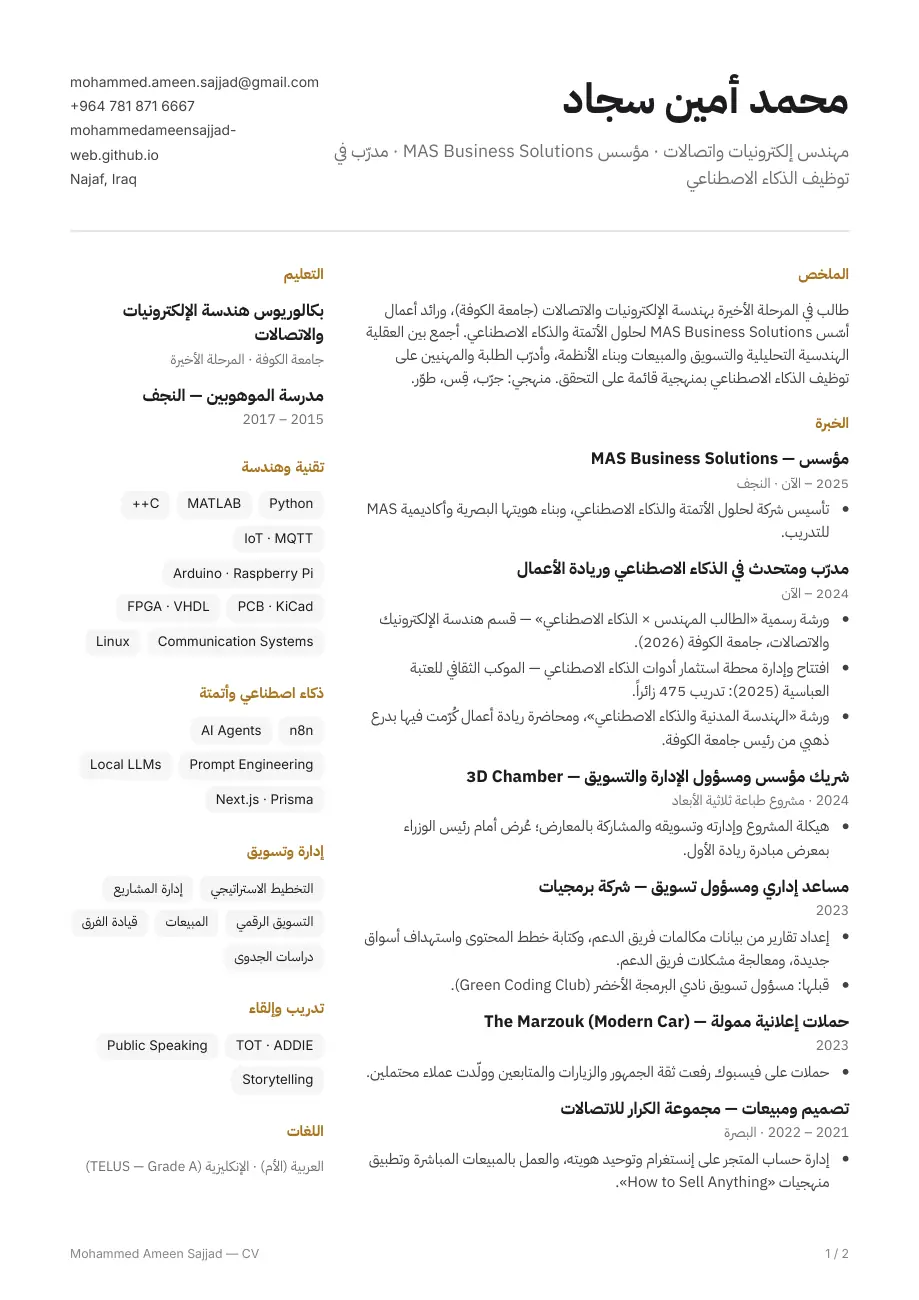
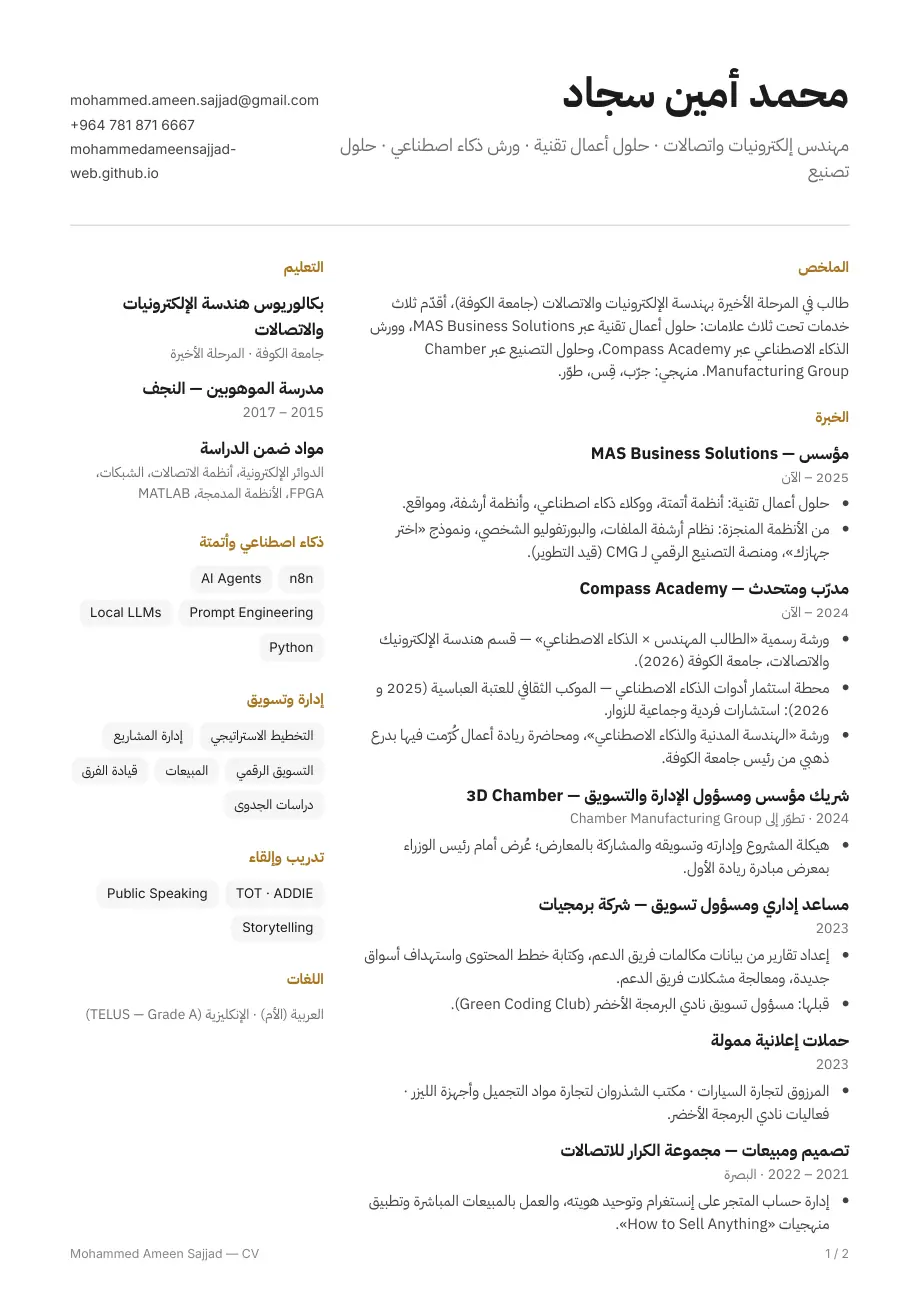
Restructure by brand (MAS, Compass Academy, CMG); proof-of-work; remove unpublished and confidential work

diff --git a/index.html b/index.html
@@ -250,7 +250,7 @@ footer .wrap{display:flex;justify-content:space-between;gap:10px;flex-wrap:wrap}
 <header class="nav"><div class="bar">
   <a class="brand" href="#top"><img src="assets/mas-logo.webp" alt=""><span data-en="Mohammed Ameen">محمد أمين</span></a>
   <nav class="links" id="links">
-    <a href="#services" data-en="Services">الخدمات</a><a href="#experience" data-en="Experience">الخبرة</a><a href="#projects" data-en="Projects">المشاريع</a>
+    <a href="#services" data-en="Services">الخدمات</a><a href="#experience" data-en="Experience">الخبرة</a><a href="#work" data-en="Work">الأعمال</a>
     <a href="#workshops" data-en="Workshops">الورش</a><a href="#credentials" data-en="Credentials">الشهادات</a><a href="#contact" data-en="Contact">تواصل</a>
   </nav>
   <button class="pill" id="lang">EN</button>
@@ -265,8 +265,8 @@ footer .wrap{display:flex;justify-content:space-between;gap:10px;flex-wrap:wrap}
       <div>
         <span class="status"><i></i><span data-en="Available for workshops, projects & consulting">متاح للورش والمشاريع والاستشارات</span></span>
         <h1><span class="gold-text" data-en="Mohammed Ameen Sajjad">محمد أمين سجاد</span></h1>
-        <p class="role" data-en="Electronics & Communications Engineer <span>·</span> Founder of MAS Business Solutions <span>·</span> AI Trainer">مهندس إلكترونيات واتصالات <span>·</span> مؤسس MAS Business Solutions <span>·</span> مدرّب ذكاء اصطناعي</p>
-        <p class="lead" data-en="I build systems that run themselves with engineering and AI, and I train students and teams to build them too.">أبني أنظمة تشتغل وحدها بالهندسة والذكاء الاصطناعي، وأدرّب الطلبة والفرق يبنوها بنفسهم.</p>
+        <p class="role" data-en="Tech business solutions <span>·</span> AI workshops <span>·</span> Manufacturing solutions">حلول أعمال تقنية <span>·</span> ورش ذكاء اصطناعي <span>·</span> حلول تصنيع</p>
+        <p class="lead" data-en="Electronics & Communications engineer. Three clear services, each under its own brand, each with proof you can check.">مهندس إلكترونيات واتصالات. ثلاث خدمات واضحة، كل وحدة تحت علامتها، وكل وحدة بإثبات تگدر تتحقق منه.</p>
       </div>
       <div class="ctas">
         <a class="btn primary" id="wa" href="https://wa.me/9647818716667" target="_blank" data-en="Start a project with me">ابدأ مشروعك معي</a>
@@ -275,7 +275,7 @@ footer .wrap{display:flex;justify-content:space-between;gap:10px;flex-wrap:wrap}
     </div>
     <div class="tile b-photo">
       <img src="assets/hero.webp" alt="محمد أمين سجاد" fetchpriority="high">
-      <div class="cap"><img src="assets/mas-logo.webp" alt=""><div><b>MAS Business Solutions</b><small data-en="Founder · Najaf, Iraq">المؤسس · النجف، العراق</small></div></div>
+      <div class="cap"><img src="assets/mas-logo.webp" alt=""><div><small data-en="Founder of">مؤسس</small><b>MAS Business Solutions</b></div></div>
     </div>
     <div class="tile b-stat hot"><b>800+</b><span data-en="people trained">متدرّب ومستفيد</span></div>
     <div class="tile b-stat"><b>25</b><span data-en="certificates & courses">شهادة ودورة</span></div>
@@ -292,26 +292,26 @@ footer .wrap{display:flex;justify-content:space-between;gap:10px;flex-wrap:wrap}
   <div class="tile">
     <p data-en="I'm a final-year Electronics & Communications Engineering student at the University of Kufa and a former student of the School for the Gifted in Najaf. I started my first small business from home at 15 and kept building: e-commerce, marketing and sales roles, a 3D-printing startup, and now my own company.">طالب بالمرحلة الأخيرة بهندسة الإلكترونيات والاتصالات في جامعة الكوفة، ودرست سابقاً في مدرسة الموهوبين بالنجف. بديت أول مشروع صغير من البيت بعمر 15، وكملت أبني: تجارة إلكترونية، وتسويق ومبيعات، ومشروع طباعة ثلاثية الأبعاد، واليوم شركتي الخاصة.</p>
     <p data-en="Through MAS Business Solutions I help businesses automate their work with AI, and through workshops I help students and engineers use AI with method and verification.">من خلال MAS Business Solutions أساعد الشركات تؤتمت شغلها بالذكاء الاصطناعي، ومن خلال الورش أساعد الطلبة والمهندسين يستخدمونه بمنهجية وتحقق.</p>
-    <div class="chips" style="margin-top:20px"><span data-en="Experiment · Measure · Improve">جرّب · قِس · طوّر</span><span data-en="Engineering">هندسة</span><span data-en="AI & automation">ذكاء اصطناعي وأتمتة</span><span data-en="Entrepreneurship">ريادة أعمال</span><span data-en="Marketing & sales">تسويق ومبيعات</span></div>
+    <div class="chips" style="margin-top:20px"><span data-en="Experiment · Measure · Improve">جرّب · قِس · طوّر</span><span data-en="AI & automation">ذكاء اصطناعي وأتمتة</span><span data-en="Entrepreneurship">ريادة أعمال</span><span data-en="Marketing & sales">تسويق ومبيعات</span></div>
   </div>
 </div></section>
 
 <section id="services" style="padding-top:20px"><div class="wrap">
-  <div class="head"><div><span class="kicker" data-en="Services">الخدمات</span><h2 data-en="What I can build with you">شنو أگدر أبني وياك</h2></div>
-    <p data-en="Four ways to work together. Each one starts with a free conversation.">أربع طرق للشغل سوا، وكل وحدة تبدي بمحادثة مجانية.</p></div>
-  <div class="grid g2 svc">
-    <div class="tile hover"><div class="ic"><svg class="i" viewBox="0 0 24 24"><path d="M22 10 12 5 2 10l10 5 10-5z"/><path d="M6 12v5c3 2 9 2 12 0v-5"/></svg></div>
-      <h3 data-en="AI workshops & training">ورش وتدريب الذكاء الاصطناعي</h3><p data-en="Hands-on workshops for universities, students and teams: study, research, reports, presentations and graduation projects, with free tools available in Iraq.">ورش تطبيقية للجامعات والطلبة والفرق: الدراسة، والبحث، والتقارير، والعروض، ومشاريع التخرج، بأدوات مجانية متاحة داخل العراق.</p>
-      <a class="lnk wa-svc" data-msg="ورشة تدريبية" data-msg-en="a workshop" href="#" target="_blank" data-en="Request a workshop →">اطلب ورشة ←</a></div>
-    <div class="tile hover"><div class="ic"><svg class="i" viewBox="0 0 24 24"><path d="M4 7h10M4 12h16M4 17h7"/><circle cx="17" cy="7" r="2.5"/><circle cx="14" cy="17" r="2.5"/></svg></div>
-      <h3 data-en="Business automation">أتمتة أنظمة الأعمال</h3><p data-en="Workflows and AI agents that remove repetitive work: bots, reporting, sales and operations. Send me a process and get an initial automation plan within 48 hours.">سير عمل ووكلاء ذكاء اصطناعي يشيلون الشغل المتكرر: بوتات، وتقارير، ومبيعات، وعمليات. ابعثلي العملية اللي تستهلك وقتك وأرد بتصوّر أتمتة خلال 48 ساعة.</p>
-      <a class="lnk wa-svc" data-msg="أتمتة عملية" data-msg-en="automating a process" href="#" target="_blank" data-en="Automate a process →">أتمت عملية ←</a></div>
-    <div class="tile hover"><div class="ic"><svg class="i" viewBox="0 0 24 24"><rect x="3" y="4" width="18" height="12" rx="2"/><path d="M8 20h8M12 16v4"/></svg></div>
-      <h3 data-en="Digital platforms & MVPs">منصات رقمية ونماذج أولية</h3><p data-en="From idea to a working prototype: requirements, architecture and AI-assisted development, like the CAS platform.">من الفكرة إلى نموذج أولي يشتغل: المتطلبات، والمعمارية، والتطوير بمساعدة الذكاء الاصطناعي، مثل منصة CAS.</p>
-      <a class="lnk wa-svc" data-msg="منصة رقمية" data-msg-en="a digital platform" href="#" target="_blank" data-en="Discuss your idea →">ناقش فكرتك ←</a></div>
-    <div class="tile hover"><div class="ic"><svg class="i" viewBox="0 0 24 24"><path d="M3 20h18"/><path d="M6 16l4-5 3 3 5-7"/></svg></div>
-      <h3 data-en="Strategy, marketing & sales">استراتيجية وتسويق ومبيعات</h3><p data-en="Market research, feasibility, marketing plans and sales systems for startups, tested in my own projects first.">دراسة السوق والجدوى، وخطط التسويق، وأنظمة المبيعات للمشاريع الناشئة، مجرّبة بمشاريعي قبل ما أقدّمها.</p>
-      <a class="lnk wa-svc" data-msg="استشارة" data-msg-en="a consultation" href="#" target="_blank" data-en="Book a free consultation →">احجز استشارة مجانية ←</a></div>
+  <div class="head"><div><span class="kicker" data-en="Services">الخدمات</span><h2 data-en="Three services, three brands">ثلاث خدمات، ثلاث علامات</h2></div>
+    <p data-en="Each service has its own brand, a defined scope, and work you can check.">لكل خدمة علامتها، ونطاقها الواضح، وشغل منجز تگدر تتحقق منه.</p></div>
+  <div class="grid g3 svc">
+    <div class="tile hover gl"><span class="kicker" style="color:var(--ink-2)">MAS Business Solutions</span><div class="ic"><svg class="i" viewBox="0 0 24 24"><path d="M4 7h10M4 12h16M4 17h7"/><circle cx="17" cy="7" r="2.5"/><circle cx="14" cy="17" r="2.5"/></svg></div>
+      <h3 data-en="Tech business solutions">حلول أعمال تقنية</h3><p data-en="Automation systems and AI agents that take repetitive work off your team, plus archiving systems and professional websites.">أنظمة أتمتة ووكلاء ذكاء اصطناعي يشيلون الشغل المتكرر عن فريقك، وأنظمة أرشفة، ومواقع احترافية.</p>
+      <a class="lnk" href="#work" data-en="See the systems I built →">شوف الأنظمة اللي بنيتها ←</a>
+      <a class="lnk wa-svc" data-msg="حلول الأعمال التقنية" data-msg-en="tech business solutions" href="#" target="_blank" data-en="Request a quote →">اطلب عرض سعر ←</a></div>
+    <div class="tile hover"><span class="kicker" style="color:var(--ink-2)">Compass Academy</span><div class="ic"><svg class="i" viewBox="0 0 24 24"><path d="M22 10 12 5 2 10l10 5 10-5z"/><path d="M6 12v5c3 2 9 2 12 0v-5"/></svg></div>
+      <h3 data-en="AI workshops">ورش الذكاء الاصطناعي</h3><p data-en="Hands-on workshops for universities, institutions and teams: study, research, reports, presentations and graduation projects with free tools available in Iraq.">ورش تطبيقية للجامعات والمؤسسات والفرق: الدراسة، والبحث، والتقارير، والعروض، ومشاريع التخرج، بأدوات مجانية متاحة داخل العراق.</p>
+      <a class="lnk" href="#workshops" data-en="See past workshops →">شوف الورش السابقة ←</a>
+      <a class="lnk wa-svc" data-msg="ورشة عن طريق Compass Academy" data-msg-en="a Compass Academy workshop" href="#" target="_blank" data-en="Book a workshop →">احجز ورشة ←</a></div>
+    <div class="tile hover"><span class="kicker" style="color:var(--ink-2)">Chamber Manufacturing Group</span><div class="ic"><svg class="i" viewBox="0 0 24 24"><path d="M21 16V8l-9-5-9 5v8l9 5 9-5z"/><path d="M3.3 7 12 12l8.7-5M12 22V12"/></svg></div>
+      <h3 data-en="Manufacturing solutions">حلول التصنيع</h3><p data-en="3D printing and digital manufacturing: from your idea or file to a finished product.">الطباعة ثلاثية الأبعاد والتصنيع الرقمي: من فكرتك أو ملفك إلى منتج جاهز.</p>
+      <a class="lnk" href="#work" data-en="See the track record →">شوف السجل ←</a>
+      <a class="lnk wa-svc" data-msg="حلول التصنيع عن طريق CMG" data-msg-en="CMG manufacturing" href="#" target="_blank" data-en="Request a quote →">اطلب عرض سعر ←</a></div>
   </div>
 </div></section>
 
@@ -319,49 +319,40 @@ footer .wrap{display:flex;justify-content:space-between;gap:10px;flex-wrap:wrap}
   <div class="head"><div><span class="kicker" data-en="Experience">الخبرة</span><h2 data-en="Built step by step">انبنيت خطوة بخطوة</h2></div>
     <p data-en="From a home business to a company, with sales, marketing and training along the way.">من مشروع بالبيت إلى شركة، مروراً بالمبيعات والتسويق والتدريب.</p></div>
   <div class="xp">
-    <div class="tile gl"><div class="yr" data-en="2025 — now">2025 — الآن</div><h3 data-en="Founder">المؤسس</h3><div class="org">MAS Business Solutions</div><p data-en="Automation and AI solutions for small businesses, a full visual identity, and MAS Academy for training.">حلول أتمتة وذكاء اصطناعي للمشاريع الصغيرة، وهوية بصرية كاملة، وأكاديمية MAS للتدريب.</p></div>
-    <div class="tile"><div class="yr" data-en="2024 — now">2024 — الآن</div><h3 data-en="AI & entrepreneurship trainer">مدرّب ومتحدث</h3><div class="org" data-en="University of Kufa · Riyada · Al-Abbas Shrine">جامعة الكوفة · ريادة · العتبة العباسية</div><p data-en="Official workshops, keynote talks, and the first AI tools station at the Arbaeen procession.">ورش رسمية، ومحاضرات، وأول محطة لأدوات الذكاء الاصطناعي بموكب الأربعين.</p></div>
+    <div class="tile gl"><div class="yr" data-en="2025 — now">2025 — الآن</div><h3 data-en="Founder">المؤسس</h3><div class="org">MAS Business Solutions</div><p data-en="Tech business solutions: automation systems, AI agents, archiving systems and websites.">حلول أعمال تقنية: أنظمة أتمتة، ووكلاء ذكاء اصطناعي، وأنظمة أرشفة، ومواقع.</p></div>
+    <div class="tile"><div class="yr" data-en="2024 — now">2024 — الآن</div><h3 data-en="AI & entrepreneurship trainer">مدرّب ومتحدث</h3><div class="org" data-en="Compass Academy · University of Kufa · Riyada">Compass Academy · جامعة الكوفة · ريادة</div><p data-en="Official workshops and talks, and the AI tools station at the Arbaeen procession for two years.">ورش ومحاضرات رسمية، ومحطة أدوات الذكاء الاصطناعي بموكب الأربعين لسنتين.</p></div>
     <div class="tile"><div class="yr">2024</div><h3 data-en="Co-founder · management & marketing">شريك مؤسس · إدارة وتسويق</h3><div class="org">3D Chamber</div><p data-en="A 3D-printing startup, presented to the Prime Minister of Iraq at the first Riyada exhibition.">مشروع طباعة ثلاثية الأبعاد، عُرض أمام رئيس الوزراء بمعرض مبادرة ريادة الأول.</p></div>
     <div class="tile"><div class="yr">2023</div><h3 data-en="Administrative assistant & marketer">مساعد إداري ومسوّق</h3><div class="org" data-en="Software company · Green Coding Club">شركة برمجيات · نادي البرمجة الأخضر</div><p data-en="Reports from support-call data, content plans, new markets, and solving support-team issues.">تقارير من بيانات مكالمات الدعم، وخطط محتوى، وأسواق جديدة، وحل مشكلات فريق الدعم.</p></div>
-    <div class="tile"><div class="yr">2023</div><h3 data-en="Paid advertising">حملات إعلانية ممولة</h3><div class="org">The Marzouk — Modern Car</div><p data-en="Facebook campaigns that built trust and grew visitors, followers and qualified leads.">حملات على فيسبوك رفعت الثقة والزيارات والمتابعين وولّدت عملاء محتملين.</p></div>
+    <div class="tile"><div class="yr">2023</div><h3 data-en="Paid advertising campaigns">حملات إعلانية ممولة</h3><div class="org" data-en="Three clients">لثلاث جهات</div><p data-en="Al-Marzouk car trading · Al-Shathrawan office for cosmetics and laser devices · Green Coding Club events.">المرزوق لتجارة السيارات · مكتب الشذروان لتجارة مواد التجميل وأجهزة الليزر · فعاليات نادي البرمجة الأخضر.</p></div>
     <div class="tile"><div class="yr">2021 — 2022</div><h3 data-en="Design & sales">تصميم ومبيعات</h3><div class="org" data-en="Al-Karar Group for Telecommunications · Basra">مجموعة الكرار للاتصالات · البصرة</div><p data-en="Unified the store's Instagram identity and worked in direct sales.">وحّدت هوية حساب المتجر واشتغلت بالمبيعات المباشرة.</p></div>
   </div>
 </div></section>
 
-<section id="projects" style="padding-top:20px"><div class="wrap">
-  <div class="head"><div><span class="kicker" data-en="Projects">المشاريع</span><h2 data-en="Work you can verify">شغل تگدر تتحقق منه</h2></div>
-    <p data-en="Each project shows its real status. Documents open for viewing.">كل مشروع بحالته الحقيقية، والوثائق تنفتح للعرض.</p></div>
+<section id="work" style="padding-top:20px"><div class="wrap">
+  <div class="head"><div><span class="kicker" data-en="Proof of work">الأعمال المنجزة</span><h2 data-en="Systems I built and run">أنظمة بنيتها وأشغّلها</h2></div>
+    <p data-en="The proof behind each service. Academic work stays private until it is peer-reviewed and published.">الإثبات ورا كل خدمة. الأعمال الأكاديمية تبقى خاصة لحد ما تتحكّم وتنشر.</p></div>
   <div class="proj">
-    <div class="tile gl feat">
-      <div style="display:grid;gap:14px;min-width:0"><span class="tag pub" data-en="Graduation project · student paper">مشروع التخرج · ورقة طلابية</span>
-        <h3 data-en="CAS: an AI platform for on-demand 3D printing">منصة CAS لتنسيق الطباعة ثلاثية الأبعاد بالذكاء الاصطناعي</h3>
-        <p data-en="My graduation project within Chamber Manufacturing Group. An AI agent turns a customer's idea into verifiable specs, then coordinates design, printing, packaging and delivery in one workflow.">مشروع تخرجي ضمن Chamber Manufacturing Group. وكيل ذكاء اصطناعي يحوّل فكرة الزبون إلى مواصفات قابلة للتحقق، وينسّق التصميم والطباعة والتغليف والتوصيل بمسار واحد.</p>
-        <div class="tech"><span>Next.js</span><span>Prisma</span><span>AI Agents</span><span>MES</span></div>
-        <div><button class="btn primary" data-doc="paper-cas" data-en="Read the student paper">اقرأ الورقة الطلابية</button></div></div>
-      <div class="flow">
-        <div><b data-en="Customer → specs">من الزبون إلى المواصفات</b><small data-en="AI clarifies vague requests">الذكاء الاصطناعي يوضّح الطلب الغامض</small></div>
-        <div><b data-en="Designer → print farm">من المصمم إلى الطابعات</b><small data-en="One coordinated workflow">مسار عمل واحد منسّق</small></div>
-        <div><b data-en="Packaging → delivery">من التغليف إلى التوصيل</b><small data-en="Tracked to completion">متابعة لحد الإنجاز</small></div>
-      </div>
-    </div>
-    <div class="tile hover s3"><span class="tag" data-en="In progress · not yet published">قيد الإعداد · غير منشور بعد</span><h3 data-en="MES for small Iraqi manufacturers">أنظمة تنفيذ التصنيع للمنشآت الصغيرة في العراق</h3><p data-en="A design and case study on digital transformation for small factories, being prepared for peer review.">تصميم ودراسة حالة عن التحول الرقمي للمعامل الصغيرة، قيد الإعداد للتحكيم العلمي.</p><div class="tech"><span>MES</span><span>IoT</span><span>Raspberry Pi</span></div></div>
-    <div class="tile hover s3"><span class="tag live" data-en="Active">قائم</span><h3>MAS Business Solutions</h3><p data-en="“Consider it done”: an automated business operating system for Iraqi companies, with identity, automated content, AI teams and integrated workflows.">«اعتبرها صارت»: نظام تشغيل آلي للأعمال للشركات العراقية. هوية، ومحتوى مؤتمت، وفرق ذكاء اصطناعي، وسير عمل متكامل.</p><div class="tech"><span>n8n</span><span>AI Agents</span><span>Branding</span></div></div>
-    <div class="tile hover s2"><span class="tag" data-en="Completed · 2024">مكتمل · 2024</span><h3>3D Chamber</h3><p data-en="Co-founded and marketed, then presented to the Prime Minister at the Riyada exhibition.">شاركت بتأسيسه وتسويقه، وعُرض أمام رئيس الوزراء بمعرض ريادة.</p></div>
-    <div class="tile hover s2"><span class="tag" data-en="Delivered · Arbaeen 2025">منجز · الأربعين 2025</span><h3 data-en="AI Tools Station">محطة أدوات الذكاء الاصطناعي</h3><p data-en="475 of 630 visitors trained in 8 days at the Al-Abbas Shrine procession.">475 زائراً من أصل 630 تدرّبوا خلال 8 أيام بموكب العتبة العباسية.</p><div class="acts"><button class="lnk" data-doc="ai-station" data-en="View the report →">اعرض التقرير ←</button></div></div>
-    <div class="tile hover s2"><span class="tag" data-en="Delivered">منجز</span><h3 data-en="Committee Archive System">نظام أرشيف اللجنة العلمية</h3><p data-en="Analysed a scientific committee's archive in Najaf and designed a correspondence system.">حللت أرشيف لجنة علمية بالنجف وصممت نظاماً للمراسلات الواردة والصادرة.</p></div>
+    <div class="tile hover gl s3"><span class="tag live" data-en="MAS · live">MAS · شغّال</span><h3 data-en="This portfolio">هذا البورتفوليو</h3><p data-en="Bilingual website with view-only documents, a certificate viewer and a QR code. You are looking at it.">موقع بلغتين، بعرض وثائق بدون تنزيل، وعارض شهادات، وباركود. اللي تشوفه هسه.</p><div class="tech"><span>HTML</span><span>GitHub Pages</span></div></div>
+    <div class="tile hover s3"><span class="tag live" data-en="MAS · live">MAS · شغّال</span><h3 data-en="Personal archiving system">نظام أرشفة ملفاتي</h3><p data-en="Sorts thousands of files by task, renames them by content, and builds a searchable visual index.">يرتّب آلاف الملفات حسب المهمة، ويسمّيها حسب محتواها، ويبني فهرساً بصرياً قابلاً للبحث.</p><div class="tech"><span>Python</span><span>Automation</span></div></div>
+    <div class="tile hover s2"><span class="tag" data-en="MAS for CMG · in development">MAS لـ CMG · قيد التطوير</span><h3 data-en="Digital manufacturing platform">منصة التصنيع الرقمي</h3><p data-en="The operating platform of Chamber Manufacturing Group.">منصة تشغيل Chamber Manufacturing Group.</p></div>
+    <div class="tile hover s2"><span class="tag" data-en="MAS · prototype">MAS · نموذج أولي</span><h3 data-en="Choose Your Device">اختر جهازك</h3><p data-en="Helps electronics shops guide each customer to the right device.">يساعد محلات الأجهزة الإلكترونية توجّه كل زبون للجهاز المناسب إله.</p></div>
+    <div class="tile hover s2"><span class="tag" data-en="MAS · next">MAS · الخطوة الجاية</span><h3 data-en="Academy system">نظام الأكاديمية</h3><p data-en="Running Compass Academy's workshops through automated systems.">تشغيل ورش Compass Academy بأنظمة مؤتمتة.</p></div>
+    <div class="tile hover s3"><span class="tag" data-en="Compass · 2025 and 2026">Compass · 2025 و 2026</span><h3 data-en="AI Tools Station at Arbaeen">محطة أدوات الذكاء الاصطناعي بالأربعين</h3><p data-en="A week-long station, 10 hours a day, with individual and group coaching for visitors, at the Al-Abbas Shrine cultural procession for two years.">محطة لمدة أسبوع، 10 ساعات باليوم، باستشارات فردية وجماعية للزوار، بالموكب الثقافي للعتبة العباسية لسنتين.</p>
+      <div class="acts" style="display:flex;gap:18px;flex-wrap:wrap"><button class="lnk" data-doc="ai-station-guide" data-en="1448 AH visitor guide →">دليل الزائر 1448هـ ←</button><button class="lnk" data-doc="ai-station" data-en="1447 AH report →">تقرير 1447هـ ←</button></div></div>
+    <div class="tile hover s3"><span class="tag" data-en="CMG · 2024">CMG · 2024</span><h3>3D Chamber</h3><p data-en="The 3D-printing project that grew into Chamber Manufacturing Group, presented to the Prime Minister at the Riyada exhibition.">مشروع الطباعة ثلاثية الأبعاد اللي تطوّر إلى Chamber Manufacturing Group، وعُرض أمام رئيس الوزراء بمعرض ريادة.</p></div>
   </div>
 </div></section>
 
 <section id="workshops" style="padding-top:20px"><div class="wrap">
   <div class="head"><div><span class="kicker" data-en="Workshops & talks">الورش والمحاضرات</span><h2 data-en="Teaching what I practise">أعلّم اللي أطبّقه</h2></div>
-    <p data-en="Official workshops at universities, initiatives and cultural events, with slides and recordings.">ورش رسمية بالجامعات والمبادرات والفعاليات الثقافية، ويا العروض والتسجيلات.</p></div>
+    <p data-en="Delivered through Compass Academy and before it, with slides and recordings.">ورش قدّمتها عن طريق Compass Academy وقبلها، ويا العروض والتسجيلات.</p></div>
   <div class="ws">
     <div class="wi"><div class="d">2026</div><div><h3 data-en="The Engineering Student × AI">الطالب المهندس × الذكاء الاصطناعي</h3><div class="o" data-en="Official workshop · ECE Department, University of Kufa">ورشة رسمية · قسم هندسة الإلكترونيك والاتصالات، جامعة الكوفة</div></div><div class="acts"><button class="lnk" data-doc="ws-engineer" data-en="Slides →">العرض ←</button></div></div>
     <div class="wi"><div class="d">2026</div><div><h3 data-en="Build a full software system in hours with AI">ابنِ نظاماً برمجياً متكاملاً في ساعات</h3><div class="o" data-en="Online · vocational students & beginners">أونلاين · طلبة الإعداديات المهنية والمبتدئين</div></div><div class="acts"><a class="lnk" href="https://youtu.be/FD184oBObRc" target="_blank" data-en="Watch →">شاهد ←</a></div></div>
     <div class="wi"><div class="d">2025</div><div><h3 data-en="Civil Engineering & AI: the Super Engineer">الهندسة المدنية والذكاء الاصطناعي</h3><div class="o" data-en="Civil engineering students & graduates · appreciation certificate">طلبة وخريجو الهندسة المدنية · شهادة تقدير</div></div><div class="acts"><button class="lnk" data-doc="ws-civil" data-en="Slides →">العرض ←</button><a class="lnk" href="https://youtu.be/S83jzLU3Rf8" target="_blank" data-en="Watch →">شاهد ←</a></div></div>
     <div class="wi"><div class="d">2025</div><div><h3 data-en="Entrepreneurship keynote">محاضرة ريادة الأعمال</h3><div class="o" data-en="University of Kufa · golden shield from the university president">جامعة الكوفة · درع ذهبي من رئيس الجامعة</div></div><div class="acts"></div></div>
-    <div class="wi"><div class="d">2025</div><div><h3 data-en="Startup essentials">أساسيات المشاريع الناشئة</h3><div class="o" data-en="Riyada Initiative trainees">متدربو مبادرة ريادة</div></div><div class="acts"></div></div>
-    <div class="wi"><div class="d">2024</div><div><h3 data-en="How engineers market themselves">كيف يسوّق المهندس نفسه</h3><div class="o" data-en="Kufa Engineering · based on Show Your Work!">هندسة الكوفة · اعتماداً على كتاب Show Your Work</div></div><div class="acts"></div></div>
+    <div class="wi"><div class="d">2025</div><div><h3 data-en="Startup essentials">أساسيات المشاريع الناشئة</h3><div class="o" data-en="Riyada Initiative trainees">متدربو مبادرة ريادة</div></div><div class="acts"><a class="lnk" href="https://www.instagram.com/reel/DKZm-svougw/" target="_blank" data-en="Watch →">شاهد ←</a></div></div>
+    <div class="wi"><div class="d">2024</div><div><h3 data-en="How engineers market themselves">كيف يسوّق المهندس نفسه</h3><div class="o" data-en="Kufa Engineering · based on Show Your Work!">هندسة الكوفة · اعتماداً على كتاب Show Your Work</div></div><div class="acts"><a class="lnk tg" data-id="610" href="#" target="_blank" data-en="Lecture file →">ملف المحاضرة ←</a></div></div>
   </div>
 </div></section>
 
@@ -374,13 +365,12 @@ footer .wrap{display:flex;justify-content:space-between;gap:10px;flex-wrap:wrap}
 </div></section>
 
 <section id="skills" style="padding-top:20px"><div class="wrap">
-  <div class="head"><div><span class="kicker" data-en="Skills & library">المهارات والمكتبة</span><h2 data-en="Engineering meets business">الهندسة تلتقي بالأعمال</h2></div>
-    <p data-en="Technical depth, business sense, and the books behind both.">عمق تقني، وحس تجاري، والكتب اللي ورا الاثنين.</p></div>
-  <div class="grid g4 sk">
-    <div class="tile"><h3 data-en="Build">البناء والتنفيذ</h3><div class="tech"><span>Python · AI/ML</span><span>n8n</span><span>IoT · MQTT</span><span>PCB · KiCad</span><span>MATLAB</span><span>FPGA · VHDL</span></div></div>
-    <div class="tile"><h3 data-en="Grow">النمو والإدارة</h3><div class="chips"><span data-en="Strategic planning">التخطيط الاستراتيجي</span><span data-en="Project management">إدارة المشاريع</span><span data-en="Digital marketing">التسويق الرقمي</span><span data-en="Sales">المبيعات</span><span data-en="Team leadership">قيادة الفرق</span></div></div>
-    <div class="tile"><h3 data-en="Teach">التدريب والإلقاء</h3><div class="chips"><span>TOT · ADDIE</span><span>Public Speaking</span><span>Storytelling</span></div></div>
-    <div class="tile"><h3 data-en="Daily tools">أدوات يومية</h3><div class="chips"><span>LLMs</span><span>Local LLMs</span><span>Canva</span><span>CapCut</span></div></div>
+  <div class="head"><div><span class="kicker" data-en="Skills & library">المهارات والمكتبة</span><h2 data-en="What I practise every day">اللي أمارسه يومياً</h2></div>
+    <p data-en="Skills I use in paid work. Subjects I am still studying are not listed.">مهارات أستخدمها بشغل حقيقي. المواد اللي بعدني أدرسها ما مذكورة هنا.</p></div>
+  <div class="grid g3 sk">
+    <div class="tile"><h3 data-en="AI & automation">الذكاء الاصطناعي والأتمتة</h3><div class="tech"><span>n8n</span><span>AI Agents</span><span>Prompt Engineering</span><span>Local LLMs</span></div></div>
+    <div class="tile"><h3 data-en="Marketing & sales">التسويق والمبيعات</h3><div class="chips"><span data-en="Paid ads">الإعلانات الممولة</span><span data-en="Content plans">خطط المحتوى</span><span data-en="Direct sales">المبيعات المباشرة</span><span data-en="Project management">إدارة المشاريع</span></div></div>
+    <div class="tile"><h3 data-en="Training & speaking">التدريب والإلقاء</h3><div class="chips"><span>TOT · ADDIE</span><span>Public Speaking</span><span>Storytelling</span><span>Canva · CapCut</span></div></div>
   </div>
   <div class="tile" style="margin-top:14px"><h3 style="font-size:18px;margin-bottom:16px" data-en="Books I applied, not just read">كتب طبّقتها، مو بس قريتها</h3>
     <div class="books"><span>Zero to One <em>· Thiel</em></span><span>The E-Myth Revisited <em>· Gerber</em></span><span>Traction <em>· Wickman</em></span><span>The 1-Page Marketing Plan <em>· Dib</em></span><span>The Ultimate Sales Machine <em>· Holmes</em></span><span>How to Sell Anything <em>· Girard</em></span><span>Show Your Work! <em>· Kleon</em></span><span>The Power of Habit <em>· Duhigg</em></span><span>Six Thinking Hats <em>· de Bono</em></span><span>How to Win Friends <em>· Carnegie</em></span><span>Influence <em>· Cialdini</em></span><span>The 48 Laws of Power <em>· Greene</em></span></div></div>
@@ -403,7 +393,7 @@ footer .wrap{display:flex;justify-content:space-between;gap:10px;flex-wrap:wrap}
   <div class="slab">
     <div><span class="kicker" data-en="Let's work together">لنشتغل سوا</span>
       <h2 data-en="Let's build something that runs itself">لنبنِ شيئاً يشتغل وحده</h2>
-      <p data-en="Have a process that eats your team's time, or a workshop in mind? Send a short description and I'll reply with an initial plan within 48 hours. The first consultation is free.">عندك عملية تستهلك وقت فريقك، أو ورشة ببالك؟ ابعثلي وصف مختصر وأرد عليك بتصوّر أولي خلال 48 ساعة. الاستشارة الأولى مجانية.</p>
+      <p data-en="Tell me which service you need and a short description. I reply with scope, timeline and price.">گلي شنو الخدمة اللي تحتاجها ويا وصف مختصر، وأرد عليك بالنطاق والمدة والسعر.</p>
       <div class="ctas"><a class="btn dark" id="wa2" href="https://wa.me/9647818716667" target="_blank" data-en="Message me on WhatsApp">راسلني على واتساب</a><button class="btn out" id="vcard" data-en="Save my contact">احفظ جهة الاتصال</button></div></div>
     <div class="qrbox"><div id="qr"></div><small data-en="Scan to open this page">امسح الكود لفتح الصفحة</small></div>
   </div>
@@ -430,10 +420,10 @@ footer .wrap{display:flex;justify-content:space-between;gap:10px;flex-wrap:wrap}
 const TG = "https://t.me/mas_note", WA = "https://wa.me/9647818716667", SITE = "https://mohammedameensajjad-web.github.io/";
 const DOCS = {
   cv: {ar: "السيرة الذاتية", en: "Curriculum Vitae"},
-  "paper-cas": {ar: "ورقة منصة CAS الطلابية", en: "CAS student paper"},
   "ws-engineer": {ar: "ورشة الطالب المهندس × الذكاء الاصطناعي", en: "The Engineering Student × AI — slides"},
   "ws-civil": {ar: "ورشة الهندسة المدنية والذكاء الاصطناعي", en: "Civil Engineering & AI — slides"},
-  "ai-station": {ar: "تقرير محطة أدوات الذكاء الاصطناعي", en: "AI Tools Station — report"},
+  "ai-station": {ar: "تقرير محطة أدوات الذكاء الاصطناعي — 1447هـ", en: "AI Tools Station — 1447 AH report"},
+  "ai-station-guide": {ar: "دليل زائر محطة الذكاء الاصطناعي — 1448هـ", en: "AI Tools Station — 1448 AH visitor guide"},
   certs: {ar: "الشهادات", en: "Certificates"}
 };
 var MAN = null, CERTS = [];
